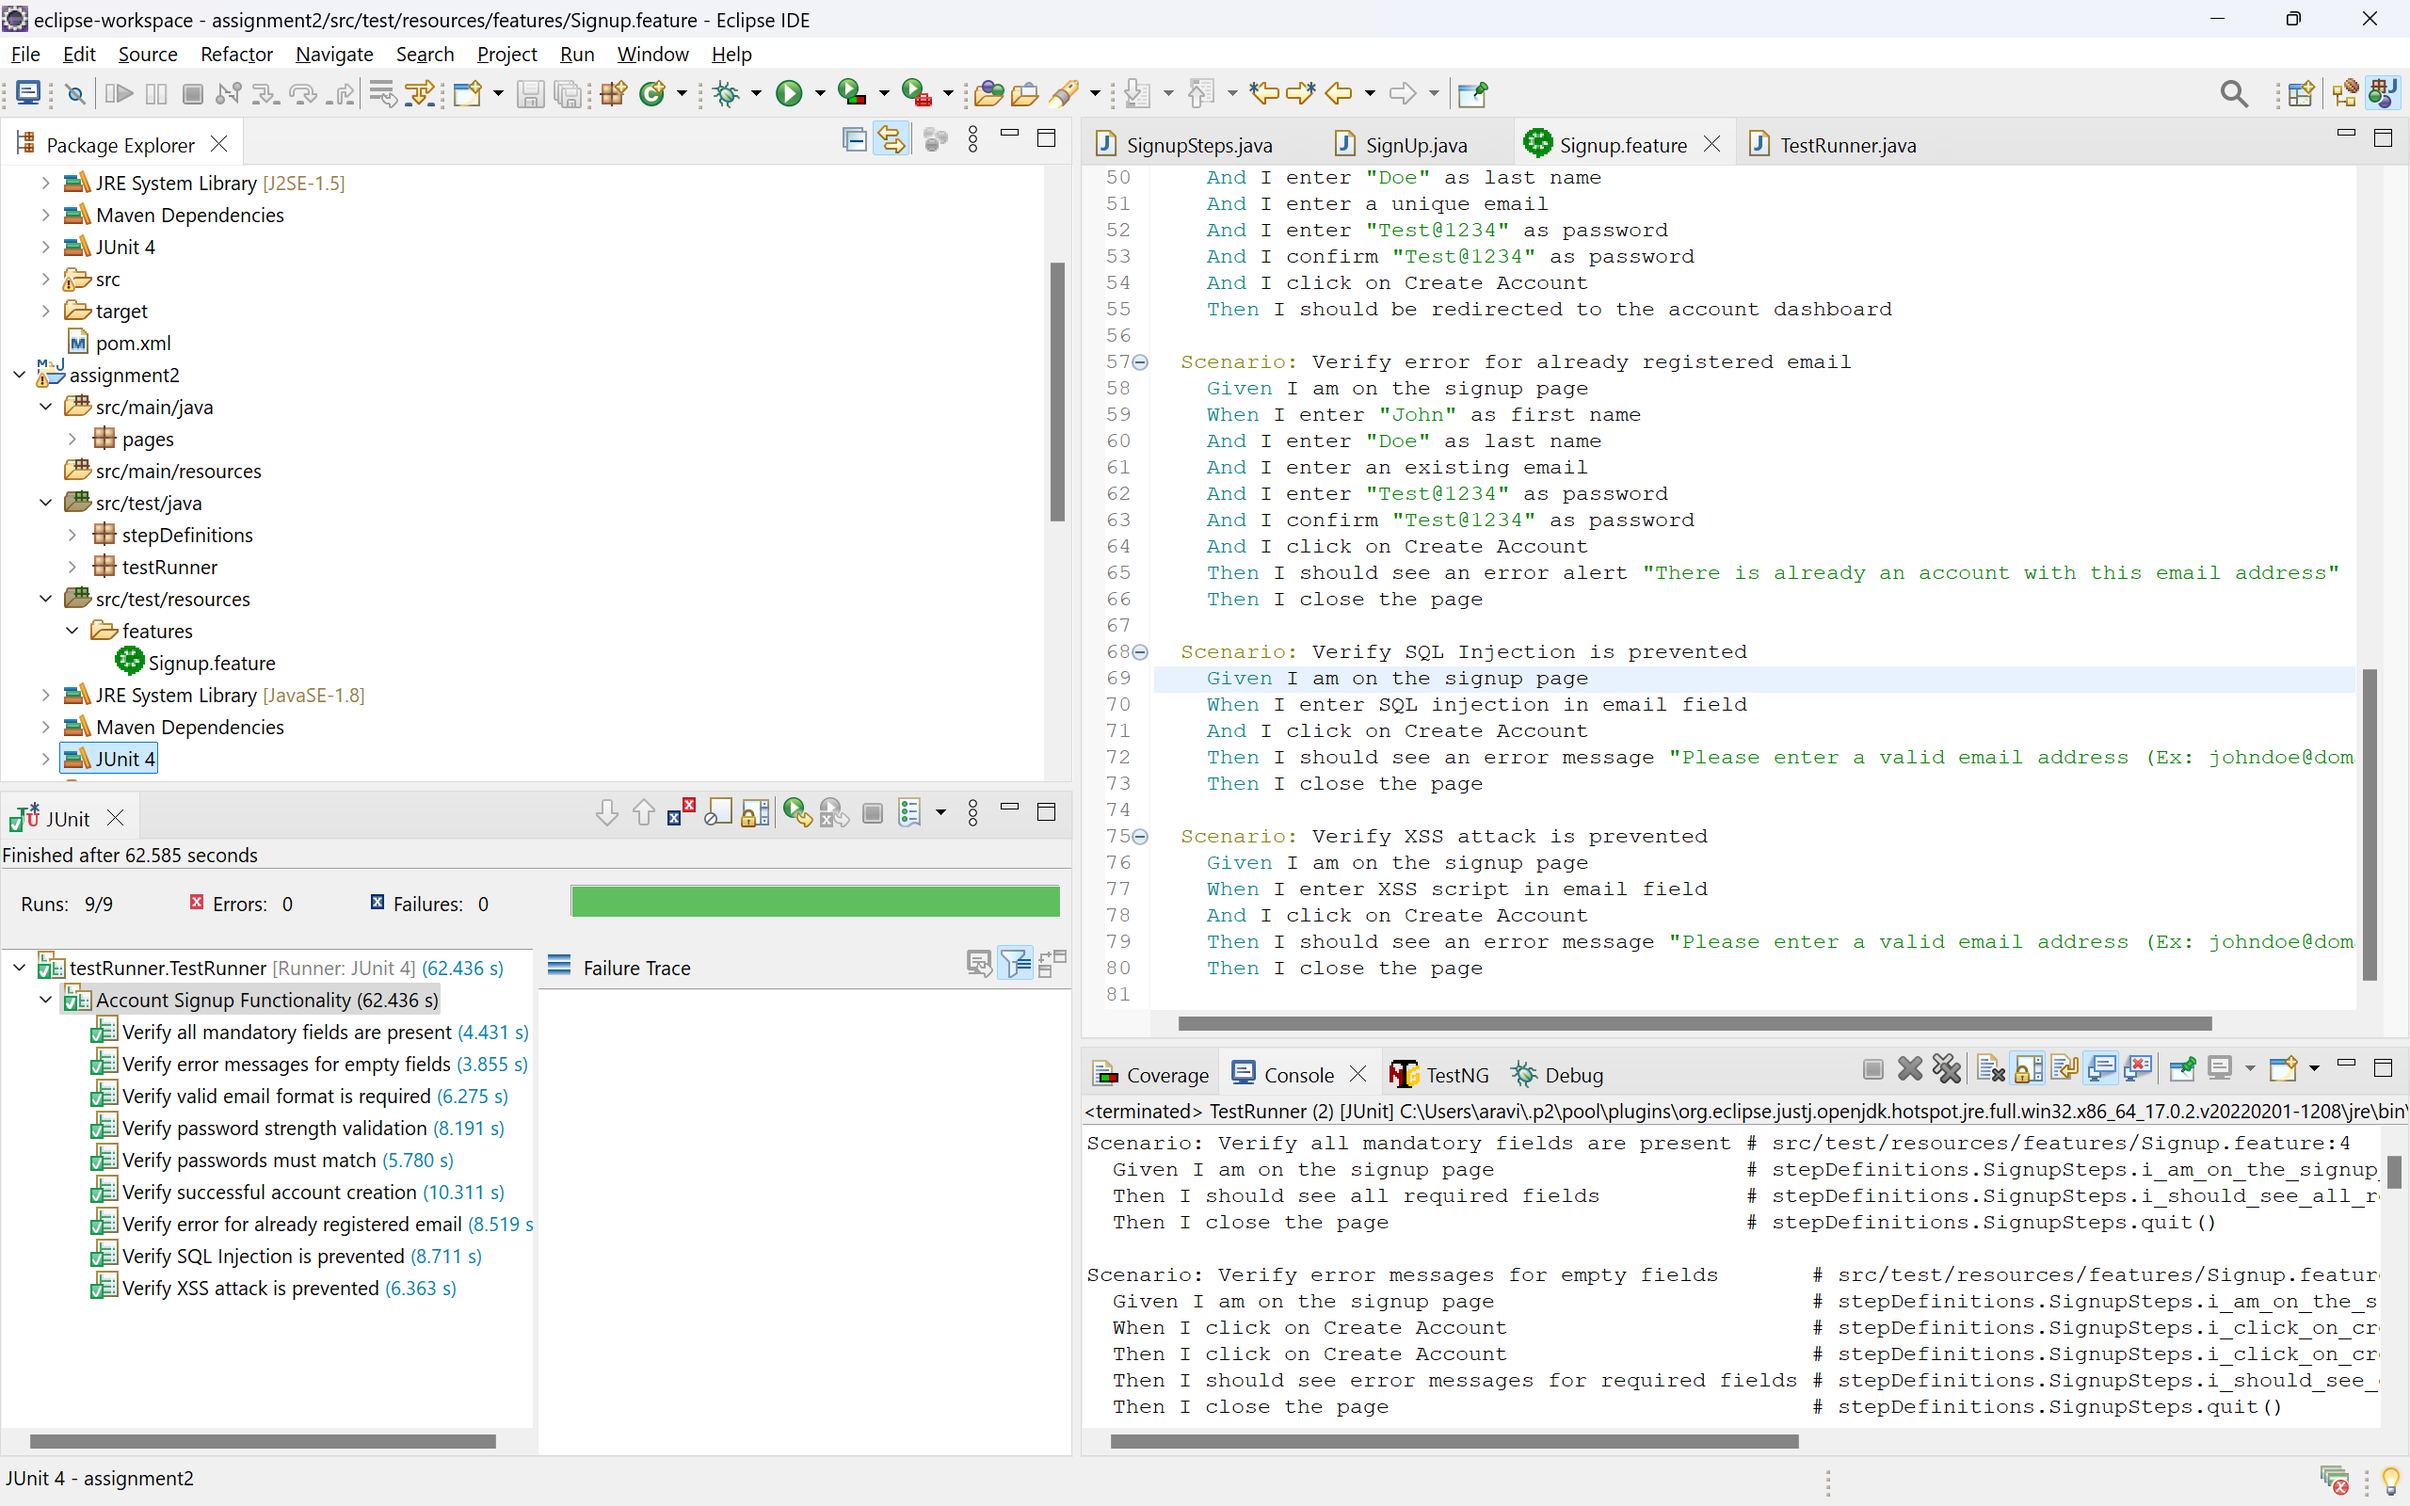
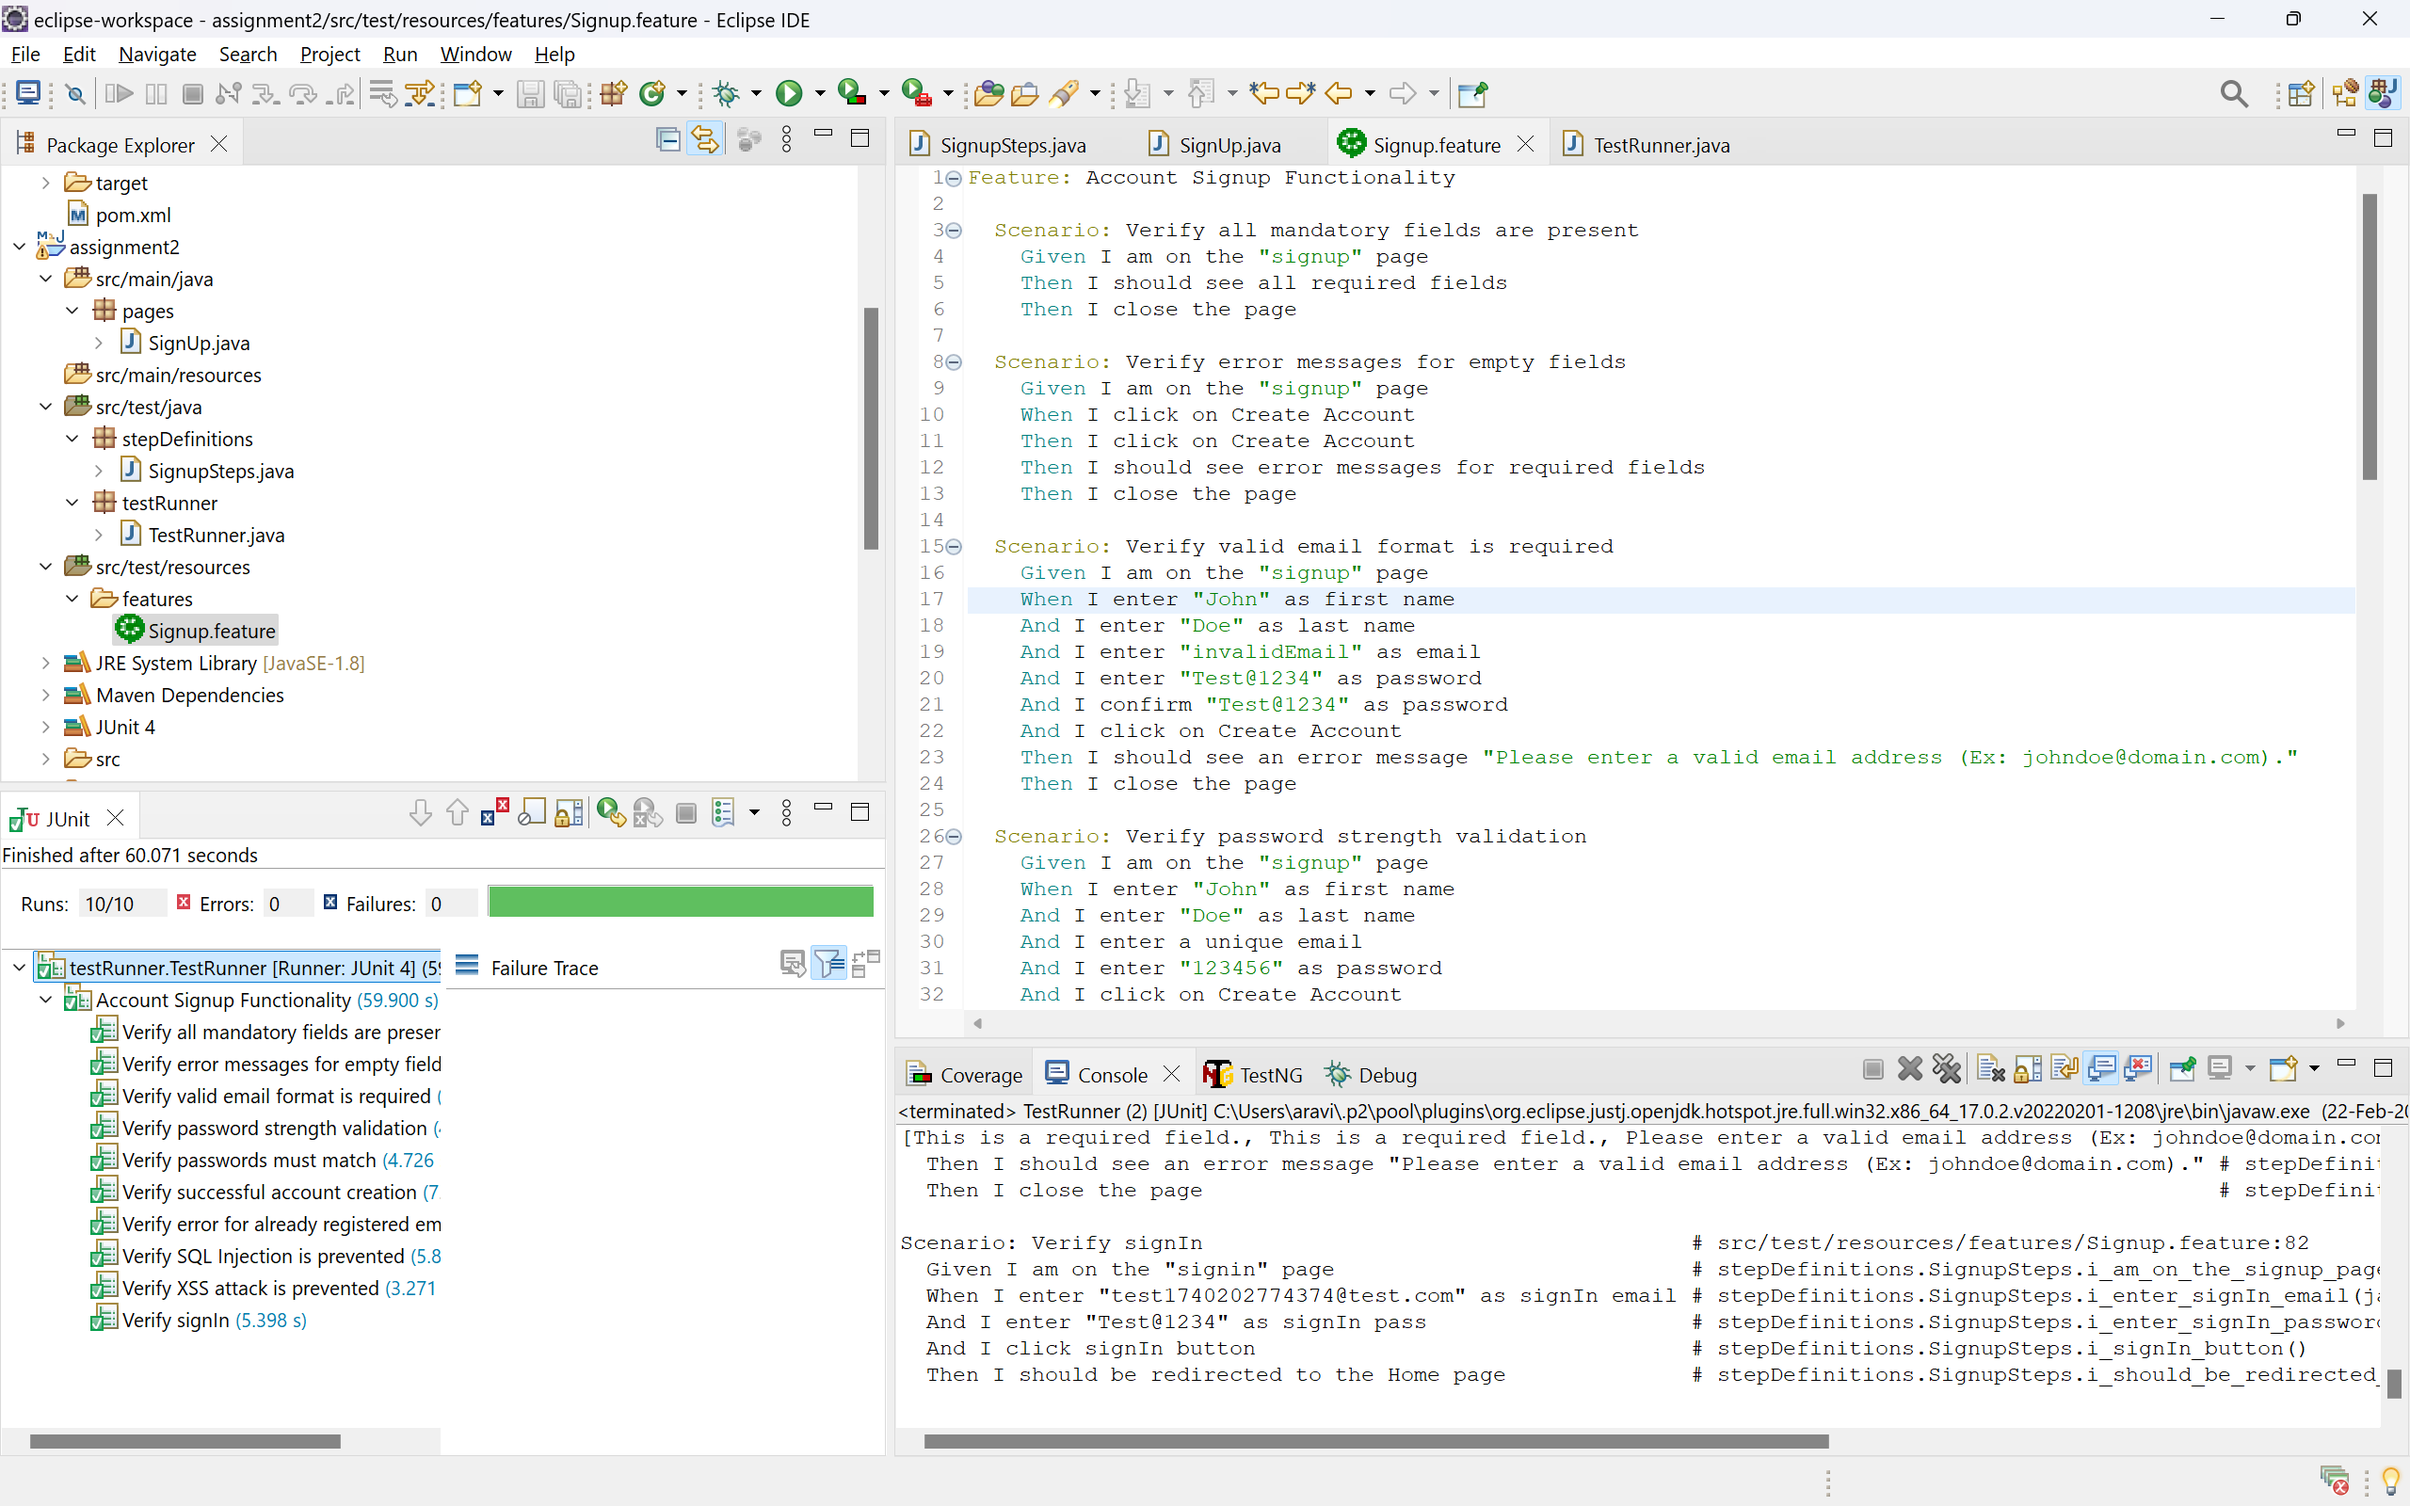
Added Sigin test

diff --git a/src/test/java/stepDefinitions/SignupSteps.java b/src/test/java/stepDefinitions/SignupSteps.java
@@ -13,14 +13,23 @@ public class SignupSteps {
 	WebDriver driver;
 	SignUp signupPage;
 	WebDriverWait wait;
+	String url;
 
-	@Given("I am on the signup page")
-	public void i_am_on_the_signup_page() {
+	@Given("I am on the {string} page")
+	public void i_am_on_the_signup_page(String page) {
 		driver = new ChromeDriver();
 		driver.manage().timeouts().implicitlyWait(Duration.ofSeconds(20));
 		driver.manage().window().maximize();
 		wait = new WebDriverWait(driver, Duration.ofSeconds(30));
-		driver.get("https://magento.softwaretestingboard.com/customer/account/create/");
+		
+		if(page.equalsIgnoreCase("signup")) {
+			url = "https://magento.softwaretestingboard.com/customer/account/create/";
+			
+		}
+		else if(page.equalsIgnoreCase("signin")) {
+			url = "https://magento.softwaretestingboard.com/customer/account/login/referer/aHR0cHM6Ly9tYWdlbnRvLnNvZnR3YXJldGVzdGluZ2JvYXJkLmNvbS8%2C/";
+		}
+		driver.get(url);
 		signupPage = new SignUp(driver);
 	}
 
@@ -56,14 +65,30 @@ public class SignupSteps {
 	@When("I enter a unique email")
 	public void i_enter_unique_email() {
 		String uniqueEmail = "test" + System.currentTimeMillis() + "@test.com";
+		System.out.println(uniqueEmail);
 		signupPage.enterEmail(uniqueEmail);
 	}
 
+	@When("I enter {string} as signIn email")
+	public void i_enter_signIn_email(String email) {
+		signupPage.enterSignInEmail(email);
+	}
+
+	@When("I enter {string} as signIn pass")
+	public void i_enter_signIn_password(String pass) {
+		signupPage.enterSignInPassword(pass);
+	}
+	
+	@When("I click signIn button")
+	public void i_signIn_button() {
+		signupPage.clickSignIn();
+	}
+	
 	@When("I enter {string} as email")
 	public void i_enter_email(String email) {
 		signupPage.enterEmail(email);
 	}
-
+	
 	@When("I enter an existing email")
 	public void i_enter_existing_email() {
 		signupPage.enterEmail("existinguser@test.com");
@@ -94,6 +119,12 @@ public class SignupSteps {
 	@Then("I should be redirected to the account dashboard")
 	public void i_should_be_redirected_to_the_account_dashboard() {
 		Assert.assertTrue(driver.getCurrentUrl().contains("customer/account"));
+		driver.quit();
+	}
+	
+	@Then("I should be redirected to the Home page")
+	public void i_should_be_redirected_to_the_home_page() {
+		Assert.assertTrue(driver.getTitle().contains("Home Page"));
 		driver.quit();
 	}
 

diff --git a/src/main/java/pages/SignUp.java b/src/main/java/pages/SignUp.java
@@ -11,8 +11,18 @@ import org.openqa.selenium.support.ui.ExpectedConditions;
 import org.openqa.selenium.support.ui.WebDriverWait;
 
 public class SignUp {
+	
 	WebDriver driver;
 	WebDriverWait wait;
+	
+	@FindBy(id = "email")
+	private WebElement sign_in_email;
+	
+	@FindBy(id = "pass")
+	private WebElement sign_in_password;
+	
+	@FindBy(id = "send2")
+	private WebElement sign_in_button;
 
 	@FindBy(id = "firstname")
 	private WebElement firstName;
@@ -110,6 +120,19 @@ public class SignUp {
 
 	public String getPasswordConfirmationError() {
 		return passwordConfirmationError.getText();
+	}
+	
+	public void enterSignInEmail(String emailValue) {
+		sign_in_email.sendKeys(emailValue);
+	}
+
+	public void enterSignInPassword(String pwd) {
+		sign_in_password.sendKeys(pwd);
+	}
+	
+	public void clickSignIn() {
+		sign_in_button.click();
+		
 	}
 
 }
